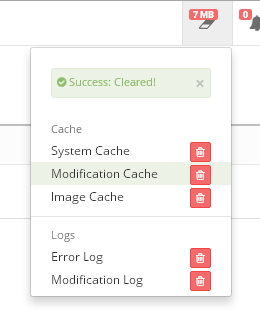
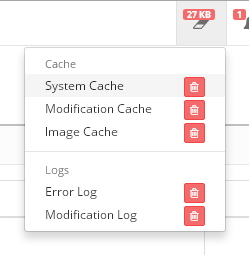
1.4.0

diff --git a/CHANGELOG.md b/CHANGELOG.md
@@ -1,5 +1,9 @@
 # Changelog
 
+#### 1.4.0
+* Compatibility with OpenCart 2.2.x
+* New screenshots
+
 #### 1.3.1
 * Calculation of the size added in the module settings
 * Update counter of the size after each cleaning
